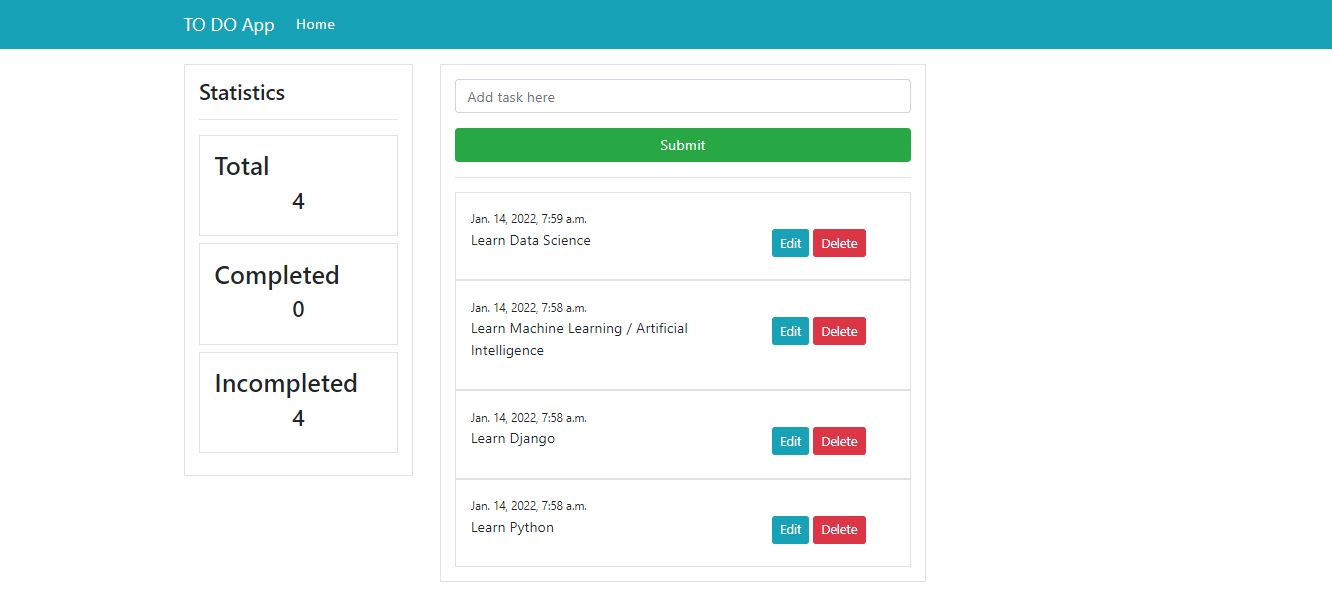
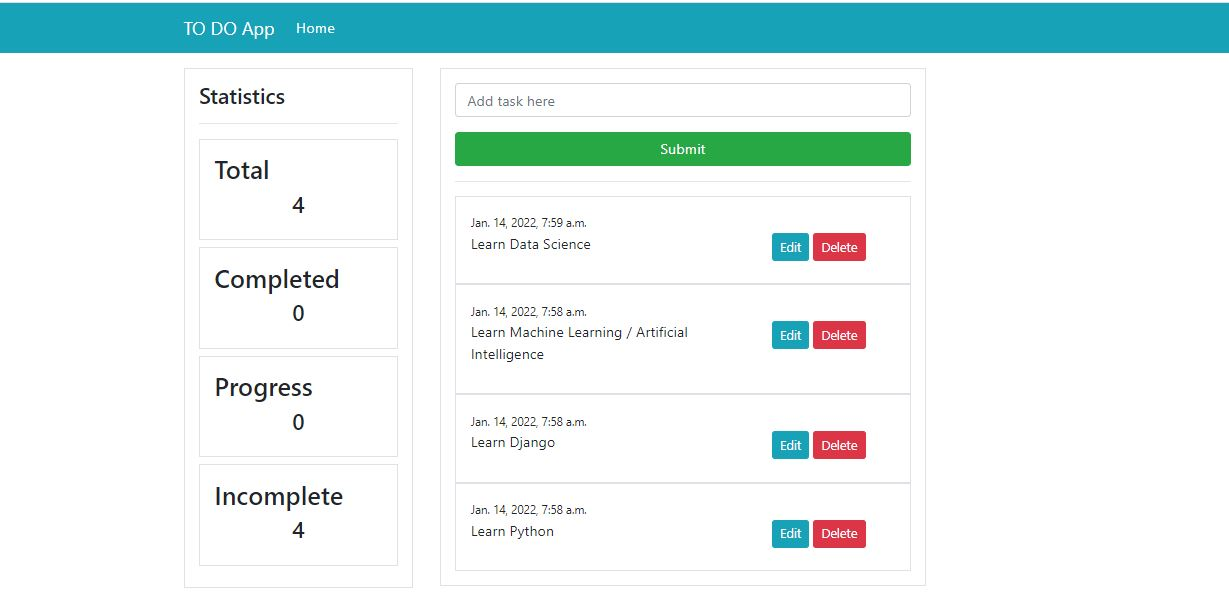
adding features

diff --git a/templates/todotemp/index.html b/templates/todotemp/index.html
@@ -23,9 +23,22 @@
                 {% if todo.complete == True %}
                 <p><span><i class="fas fa-check-circle"></i></span>
                 {{todo.content}}</p>
+
+                {% elif todo.progress == True %}
+                
+                <p><span><i class="fas fa-spinner"></i></span>
+                    {{todo.content}}</p>
+                
                 {% else %}
                 <p>{{todo.content}}</p>
                 {% endif %}
+
+                
+                
+                
+                
+               
+
             </div>
             <div class="col-md-4">
                 <a class="btn btn-info btn-sm" href="{% url 'to-do-update' todo.id %}">Edit</a>

diff --git a/templates/partial/aside.html b/templates/partial/aside.html
@@ -14,7 +14,12 @@
     </div>
 
     <div class="border p-3 mb-2">
-        <h3>Incompleted</h3>
+        <h3>Progress</h3>
+        <h4 class="text-center">{{count_progress_task}}</h4>
+    </div>
+
+    <div class="border p-3 mb-2">
+        <h3>Incomplete</h3>
         <h4 class="text-center">{{count_incompleted_task}}</h4>
     </div>
 </div>

diff --git a/main/views.py b/main/views.py
@@ -15,6 +15,9 @@ def index(request):
     completed_task = Task.objects.filter(complete=True)
     count_completed_task = completed_task.count()
 
+    progress_task = Task.objects.filter(progress=True)
+    count_progress_task = progress_task.count()
+
     ## For incompleted task we just do the difference between all the tasks and the completed tasks
     count_incompleted_task = all_task_counter - count_completed_task
 
@@ -33,7 +36,8 @@ def index(request):
         'form': form,  ## Django forms
         'all_task_counter': all_task_counter, ## Counting the total number of task in the list
         'count_completed_task': count_completed_task, ## Counting the completed tasks
-        'count_incompleted_task': count_incompleted_task ## Counting the incmomplete tasks
+        'count_incompleted_task': count_incompleted_task, ## Counting the incmomplete tasks
+        'count_progress_task': count_progress_task
 
 
     }

diff --git a/main/migrations/0002_auto_20220114_1358.py b/main/migrations/0002_auto_20220114_1358.py
@@ -1,0 +1,22 @@
+# Generated by Django 3.0.1 on 2022-01-14 08:13
+
+from django.db import migrations, models
+
+
+class Migration(migrations.Migration):
+
+    dependencies = [
+        ('main', '0001_initial'),
+    ]
+
+    operations = [
+        migrations.AlterModelOptions(
+            name='task',
+            options={'ordering': ['-date']},
+        ),
+        migrations.AddField(
+            model_name='task',
+            name='progress',
+            field=models.BooleanField(default=False),
+        ),
+    ]

diff --git a/main/models.py b/main/models.py
@@ -5,6 +5,7 @@ class Task(models.Model):
     content = models.CharField(max_length=100)
     date = models.DateTimeField(auto_now_add=True)
     complete = models.BooleanField(default=False)
+    progress = models.BooleanField(default=False)
 
     class Meta:
         ordering = ['-date']
